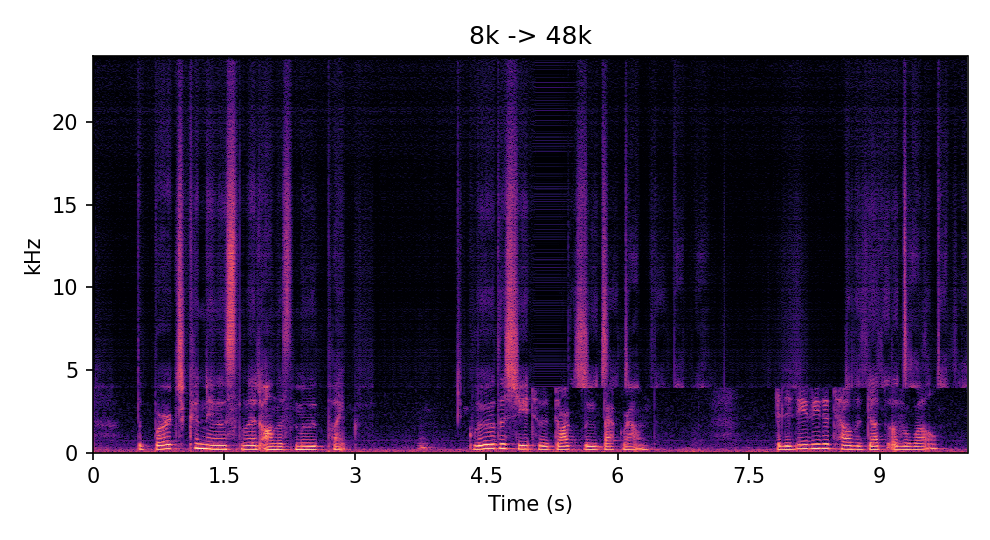
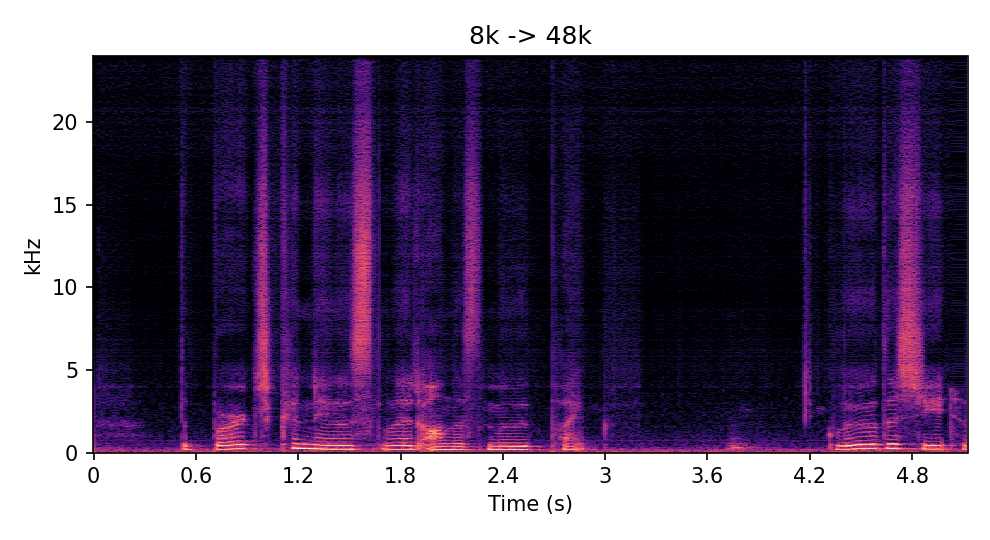
docs: show first 5.12 s for long-audio spectrograms

diff --git a/scripts/make_spectrograms.py b/scripts/make_spectrograms.py
@@ -44,10 +44,10 @@ def plot(src, dst, title, seconds=None):
 en = ["OSR_us_000_0010", "OSR_us_000_0013", "OSR_us_000_0057", "OSR_us_000_0059"]
 zh = ["OSR_cn_000_0072", "OSR_cn_000_0073", "OSR_cn_000_0074", "OSR_cn_000_0075"]
 for n in en + zh:
-    plot(f"8k/{n}_input_8k.wav", f"{n}_input_8k_spec.png", "8k input", 10)
-    plot(f"48k_from8k/{n}_output_48k.wav", f"{n}_output_48k_spec.png", "8k -> 48k", 10)
-plot("8k/samplelib_speech_1m_input_8k.wav", "samplelib_speech_1m_input_8k_spec.png", "8k input", 10)
-plot("48k_from8k/samplelib_speech_1m_output_48k.wav", "samplelib_speech_1m_output_48k_spec.png", "8k -> 48k", 10)
+    plot(f"8k/{n}_input_8k.wav", f"{n}_input_8k_spec.png", "8k input", 5.12)
+    plot(f"48k_from8k/{n}_output_48k.wav", f"{n}_output_48k_spec.png", "8k -> 48k", 5.12)
+plot("8k/samplelib_speech_1m_input_8k.wav", "samplelib_speech_1m_input_8k_spec.png", "8k input", 5.12)
+plot("48k_from8k/samplelib_speech_1m_output_48k.wav", "samplelib_speech_1m_output_48k_spec.png", "8k -> 48k", 5.12)
 for n in ["speech_2", "speech_3"]:
     plot(f"8k/{n}_input_8k.wav", f"{n}_input_8k_spec.png", "8k input")
     plot(f"48k_from8k/{n}_output_48k.wav", f"{n}_output_8k_48k_spec.png", "8k -> 48k")

diff --git a/scripts/make_readme.py b/scripts/make_readme.py
@@ -116,7 +116,7 @@ def build(hf=False):
         lines += table("8k", n, "8k", f"8k/{n}_input_8k.wav", f"48k_from8k/{n}_output_48k.wav",
                        f"{n}_input_8k_spec.png", f"{n}_output_48k_spec.png", hf).splitlines()
         lines.append("")
-    lines += ["#### Samplelib（1 分钟，频谱图为前 10 s）", ""]
+    lines += ["#### Samplelib（1 分钟，频谱图为前 5.12 s）", ""]
     lines += table("8k", "samplelib_speech_1m", "8k", "8k/samplelib_speech_1m_input_8k.wav",
                    "48k_from8k/samplelib_speech_1m_output_48k.wav",
                    "samplelib_speech_1m_input_8k_spec.png", "samplelib_speech_1m_output_48k_spec.png", hf).splitlines()

diff --git a/README.md b/README.md
@@ -39,7 +39,7 @@ bash run_ax650.sh samples/listen/8k/OSR_us_000_0010_input_8k.wav output.wav
 
 ### 8 kHz 输入（Open Speech / Samplelib）
 
-> 长音频 OSR / samplelib 的频谱图均截取**前 10 秒**；输入与输出使用同一时间段，方便对比。
+> 长音频 OSR / samplelib 的频谱图只展示**前 5.12 秒**（FlowHigh 的第一个完整 chunk）；输入与输出使用同一时间段，方便对比。长音频后续 chunk 可能有分块高频伪影，属于运行时限制。
 
 #### English
 
